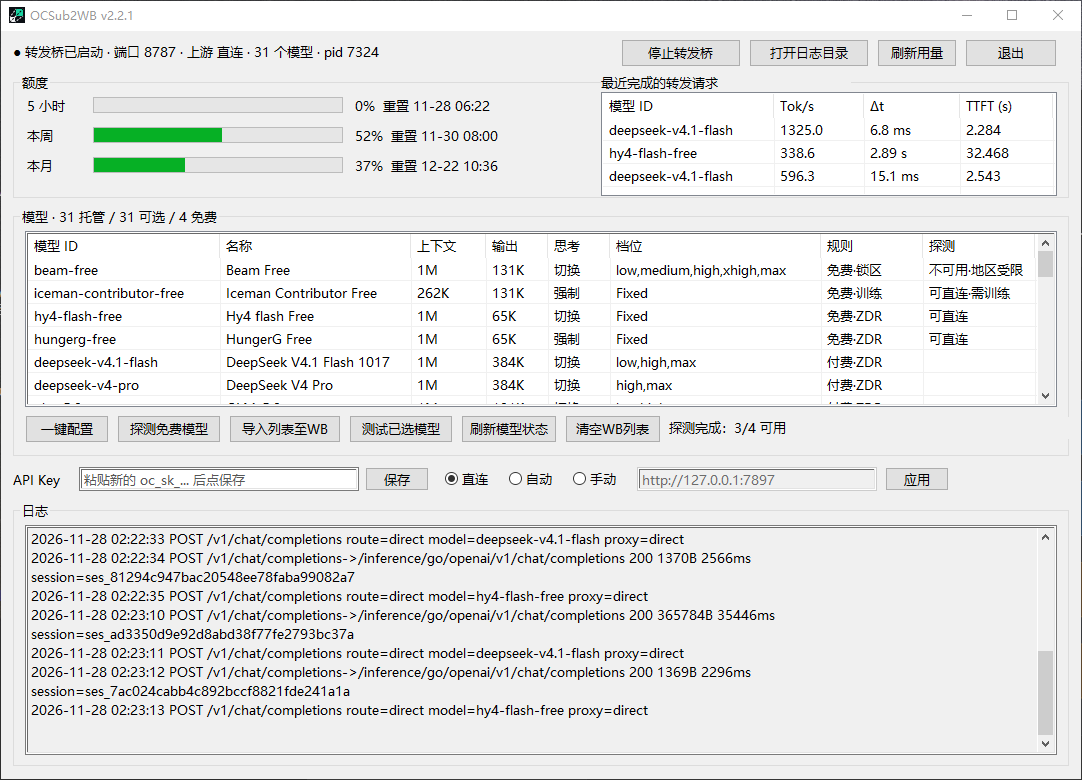
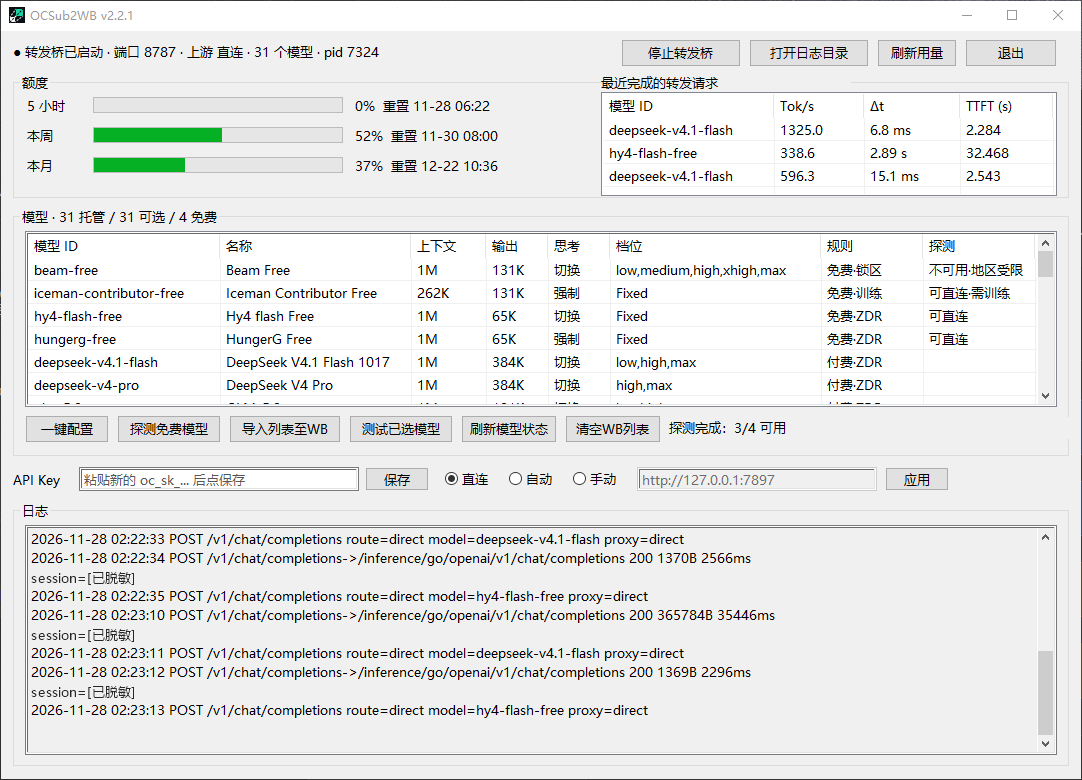
Align online documentation with the v2.2.1 release

Changed region(s): [[0.0305, 0.7077, 0.3355, 0.7692], [0.0305, 0.8615, 0.3355, 0.8923], [0.0305, 0.8, 0.3355, 0.8308]]

diff --git a/THIRD-PARTY-NOTICES.md b/THIRD-PARTY-NOTICES.md
@@ -1,10 +1,10 @@
 # 第三方组件与许可
 
-OCSub2WB 项目的代码与文档采用 [MIT](./LICENSE)。本页列出 **v2.1.0 Windows x64 便携包**中由工具链静态链接的运行时代码，以及包内附带的许可文本。
+OCSub2WB 项目的代码与文档采用 [MIT](./LICENSE)。本页列出 **v2.2.1 Windows x64 便携包**中由工具链静态链接的运行时代码，以及包内附带的许可文本。
 
 ## Windows 便携包
 
-v2.1.0 的发布资产来自 Windows GitHub Actions 中通过测试的 MSYS2 MINGW64 构建。下表的版本是此构建实际安装的包版本。[v2.1.0 构建记录](https://github.com/869Nitro/OCSub2WB/actions/runs/45934018054)
+v2.2.1 的发布资产来自 Windows GitHub Actions 中通过测试的 MSYS2 MINGW64 构建。下表的版本是此构建实际安装的包版本。[v2.2.1 构建记录](https://github.com/869Nitro/OCSub2WB/actions/runs/46046637393/job/140667430333)
 
 | 组件 | 构建包版本 | 源码与附带文本 |
 | --- | --- | --- |

diff --git a/docs/usage.md b/docs/usage.md
@@ -87,7 +87,7 @@ Get-FileHash -Algorithm SHA256 .\OCSub2WB-v2.2.1-win64.zip
 | 便携目录的 `cache/backup/` | 写入模型配置前的备份。 |
 | 便携目录的 `cache/api.token`、`cache/proxy.pid` | 本机面板控制令牌以及转发桥进程信息。 |
 
-Key 以明文保存在 `.env` 和写入 WorkBuddy 的托管模型条目中。模型备份也可能包含 Key。分享日志或配置前，先检查其中的 Key、控制令牌和本机信息。
+API Key 以**明文**保存在 `.env` 和 WorkBuddy 的托管模型配置中。模型配置备份也可能包含 Key。公开分享日志、配置或截图前，请移除其中的 Key、控制令牌、会话标识和其他敏感信息。
 
 转发桥监听本机回环地址。模型请求和认证信息由转发桥发往 OpenCode Go，并在启用上游代理时走选定的路径。上游的数据处理规则见[OpenCode Go 隐私说明](https://opencode.ai/docs/console/go/#privacy)。
 
